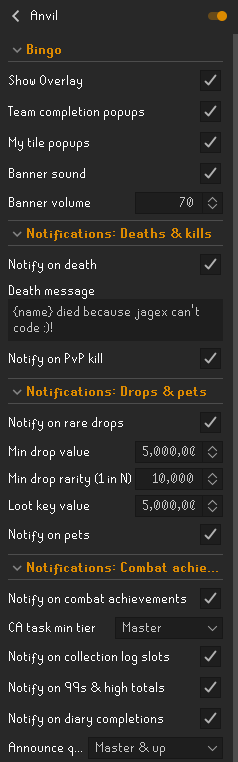
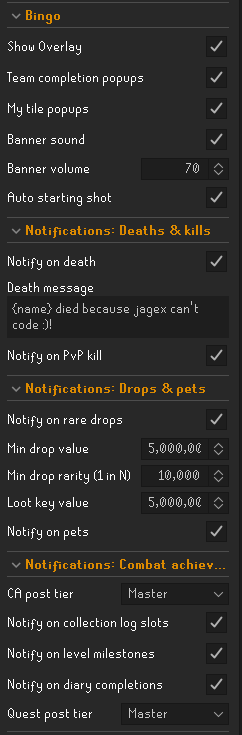
README: settings for 1.10.0, with fresh screenshots

diff --git a/README.md b/README.md
@@ -100,10 +100,12 @@ until you press **Track again** in the same strip.
 <img src="docs/images/lookup-menu.png" alt="A player's right-click menu with an Anvil entry under Lookup and RuneProfile" width="240" align="right">
 
 Right-click a player — standing next to you, or by name in chat, your friends list or the clan
-panel — and pick **Anvil** to open their profile on the site. For your own, open the **⋯** menu at
-the top of the panel and pick **View my profile on Anvil**.
+panel — and pick **Anvil** to open their card in the side panel's **Lookup** tab. Your own is the
+**You** tab. On a name in chat it's never the left-click option, so clicking a name still does what
+the game does.
 
-Rather keep your menus short? Untick **Anvil lookup on players** under **General** in the settings.
+Rather keep your menus short? Pick where it shows under **Player lookup** in the settings, or untick
+**Anvil lookup on players** to hide it everywhere.
 
 <br clear="right">
 
@@ -131,34 +133,36 @@ shape of it.
 
 | Section | What's in it |
 | --- | --- |
-| **General** | The **Anvil** lookup on players' right-click menus. |
-| **Bingo** | The verification overlay, team-completion banners and their sounds. |
+| **Player lookup** | The **Anvil** entry on player names, and where it shows: players in the world, the chatbox and private messages, clan panels, friends chat, and your friends, ignore and party lists. In chat it's never the left-click option. |
+| **Bingo** | The verification overlay, team and personal tile popups, banner sounds, and the automatic starting shot. |
 | **Notifications: Deaths & kills** | Your death posts and your own death message; PvP kills (off by default). |
 | **Notifications: Drops & pets** | Rare drops by value or by rarity, loot keys, and pets. Each posts with a screenshot. |
-| **Notifications: Combat achievements** | CA tasks and tier clears, collection-log slots, level milestones (your clan's rules), diaries, quests. |
+| **Notifications: Combat achievements** | CA tasks and tier clears, collection-log slots, level milestones (your clan's rules), diaries (with a screenshot), quests by difficulty. |
 | **Profile sync** | Clan Coffer movements, collection log, personal bests, clan roster, and sharing highlights with the clan. |
 
 <p align="center">
-  <img src="docs/images/settings-general.png" alt="The General settings section: Anvil lookup on players" width="240">
+  <img src="docs/images/settings-lookup.png" alt="The Player lookup settings section: the Anvil lookup switch and where it shows" width="242">
   <br>
-  <img src="docs/images/settings-main.png" alt="The Anvil settings: Bingo and the notification sections" width="238">
+  <img src="docs/images/settings-main.png" alt="The Anvil settings: Bingo and the notification sections" width="242">
 </p>
 
 A few worth knowing about:
 
 | Setting | Default | Why you'd change it |
 | --- | --- | --- |
-| Anvil lookup on players | on | Turn it off to keep **Anvil** out of players' right-click menus. |
+| Anvil lookup on players | on | Turn it off to keep **Anvil** out of every menu, or untick just the places you don't want it under **Player lookup**. |
 | Show Overlay | on | Turn it off if you don't want the codeword panel on screen — proofs are still stamped. |
 | Min drop value | 5,000,000 | The gp floor for a drop post. `0` switches value posts off. |
 | Min drop rarity (1 in N) | 10,000 | Catches cheap-but-rare uniques. Looser than this and the channel fills with herb rolls. Your clan can set a floor; yours applies when it's stricter. |
 | Loot key value | 1,000,000 | A loot key posts once, for its whole contents. |
-| CA task min tier | Master | Set to Grandmaster for only the rarest tasks. Tier clears always post. |
+| CA post tier | Master | The lowest task tier that posts, tier clears included. Grandmaster for only the rarest, **Off** for none. Bingo CA tiles count either way. |
+| Quest post tier | Master | Quests at or above this difficulty, from **All** to Grandmaster, or **Off**. |
+| Notify on level milestones | on | Which levels post is your clan's call (99s and high totals by default). Post less, or set your own rules for your personal webhooks, under Announcements on your Anvil profile. |
 | Notify on PvP kill | off | On, and your kills post with a screenshot of the tick they hit 0 HP. |
 
 ### Profile sync
 
-<img src="docs/images/settings-sync.png" alt="The Profile sync settings section" width="223" align="right">
+<img src="docs/images/settings-sync.png" alt="The Profile sync settings section" width="242" align="right">
 
 Your collection log and personal bests, kept current on your profile. The whole log syncs when you
 open it in game, or on the **Sync profile** button the side panel shows while the log is open. **Share highlights with the
